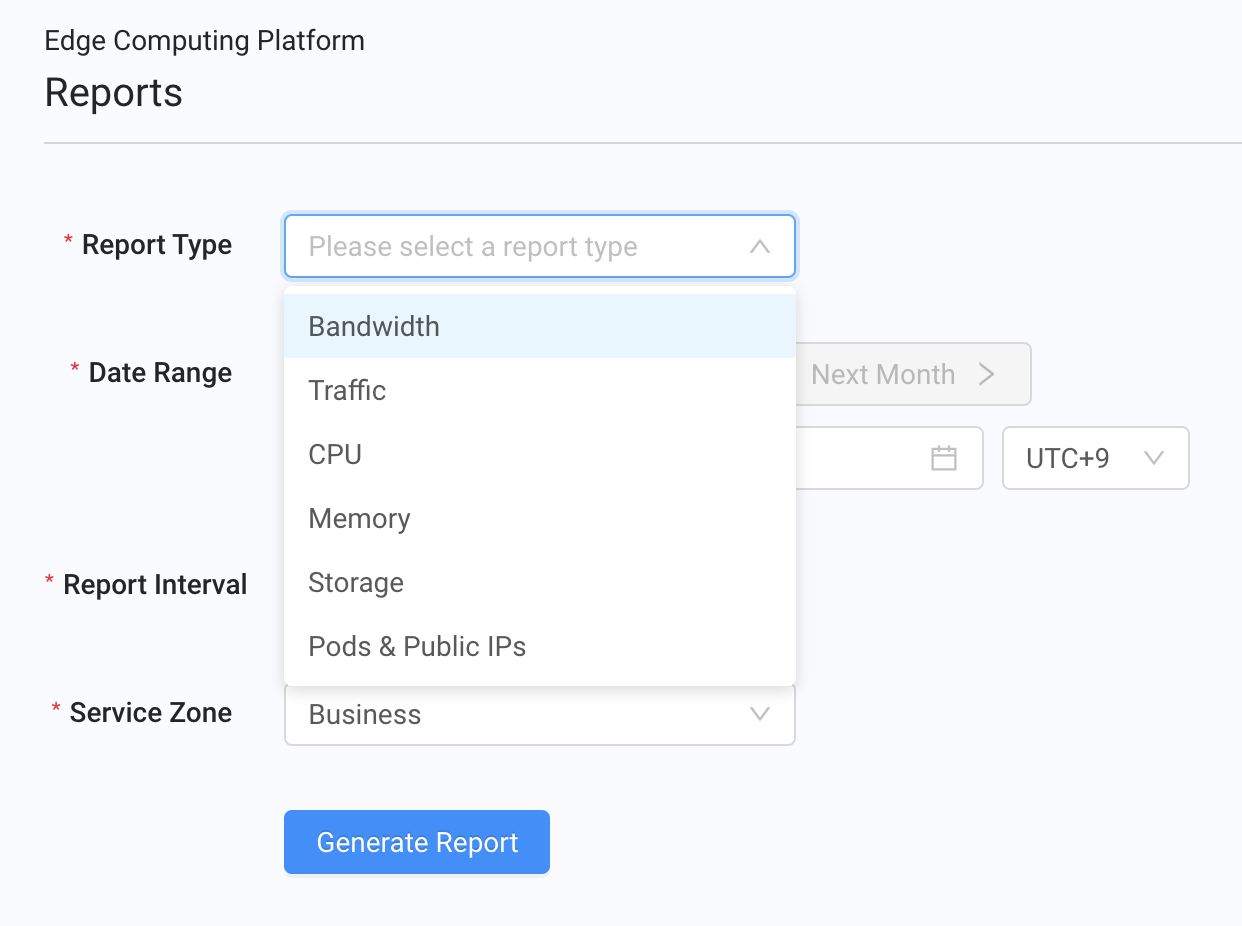
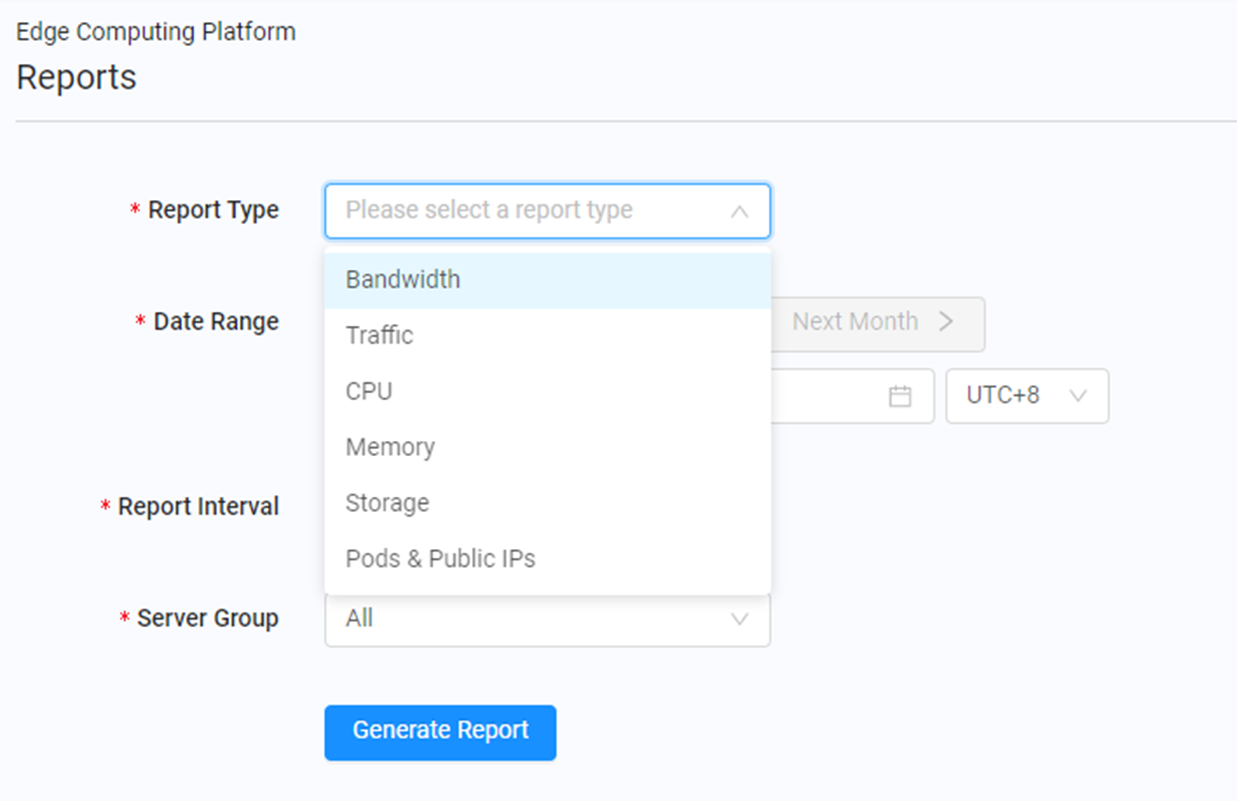
Replace service zone with server group on reports page and various changes to introduction, dashboard and UI navigation page

diff --git a/en/docs/portal/reports.md b/en/docs/portal/reports.md
@@ -1,8 +1,8 @@
 # Reports
 
-The ECP allows you to generate reports covering bandwidth, traffic, CPU, memory, storage, and pods and public IP addresses. The metrics related to CPU, memory, and storage are reported according to your resource requests rather than real-time consumption.
+The ECP reporting feature enables you to retrieve reports on both your resource requests (CPU, RAM, disks, and IP) and real-time traffic data.
 
-You can query reports for up to one year (366 days, which includes Leap Day). The report granularity can be as high as 1-minute or from medium to low, such as 5-minute, hourly, daily, and monthly. You can even query reports on applications that run in different ECP service zones.
+You can query reports for up to one year (366 days, which includes Leap Day). The report granularity can be as high as 1-minute or from medium to low, such as 5-minute, hourly, daily, and monthly. You can query reports as per ECP server groups.
 
 If you are a reseller with child accounts, you can select the accounts that a report will cover (the parent account only, the child account only, or both the parent and child accounts).
 
@@ -16,7 +16,7 @@ The following figure shows the key elements on the page.
 
 | **Fields**   | **Description**                                                                                           |
 | :----------: | --------------------------------------------------------------------------------------------------------- |
-| 1            | Specify the report type, date range, report interval, and service zone. Resellers with child accounts can also select a report range.  |
+| 1            | Specify the report type, date range, report interval, and server group. Resellers with child accounts can also select a report range.  |
 | 2            | The **Generate Report** button allows you to generate the report defined by the report parameters.        | 
 
 # Understanding Report Types
@@ -27,12 +27,12 @@ The ECP supports the following type of reports. You select a report type from th
 
 | **Report**               | **Description**                               |
 | -------------------------|-----------------------------------------------| 
-| Bandwidth                | Shows the total peak incoming and outgoing bandwidth, peak total bandwidth, average total bandwidth (in bps), and how the values change over time.                                               |
-| Traffic                  | Shows the total amount of incoming and outgoing traffic, the total traffic value (in bytes), and how the values change over time.                                                                      |
-| CPU                      | Shows the peak CPU usage and how the value changes over time.         |
-| Memory                   | Shows the peak memory usage and how the value changes over time.                                                         |
-| Storage                  | Shows the peak local storage usage and peak persist storage usage (in bytes), and how the values change over time.     |
-| Pods & Public IPs        | Shows the peak pod usage and peak IP usage, and how the values change over time.                                           |
+| Bandwidth                | Shows 95th percentile bandwidth of incoming/outgoing/total traffic, average bandwidth, and how the bandwidth changes over time.                                               |
+| Traffic                  | Shows volumes of incoming/outgoing/total traffic, and how the values change over time.                                                                      |
+| CPU                      | Shows peak CPU requests and how the requests change over time.         |
+| Memory                   | Shows peak RAM requests and how the requests change over time.                                                         |
+| Storage                  | Shows peak local-SSD and persist-SSD storage requests, and how the requests change over time.     |
+| Pods & Public IPs        | Shows peak pods and IP addresses requests, and how the requests change over time.                                           |
 
 # Generating Reports
 
@@ -45,9 +45,9 @@ The ECP supports the following type of reports. You select a report type from th
 | -------------------------|-----------------------------------------------| 
 | Report Type              | Select the [type of report](<#understanding-report-types>) you want to generate.                      |
 | Date Range               | Select the month, or a start date, end date, and time span for the report. If you select a start date, end date, and time span, use the **UTC** drop-down list to select a time zone.                |
-| Report Interval          | Select the granularity of the returned data. Choices are:<ul><li><strong>1 Minute</strong> = this interval is supported when the time span does not exceed 7 days.</li><li><strong>5 Minutes</strong> = this interval is supported when the time span does not exceed 31 days.</li><li><strong>1 Hour</strong>.</li><li><strong>1 Day</strong>.<li><strong>1 Month</strong>.</li></ul>Raw report data is generated per 1 minute. The raw data is aggregated to provide reports of different granularities. The aggregation method is the “sum” for the metrics "inboundTraffic," "outboundTraffic," and "totalTraffic." For all other metrics, the aggregation method is "average."                              |
-| Service Zone             | Select one or more service zone options. <ul><li><strong>Business</strong> = business service zone. (*default*).</li><li><strong>Standard</strong> = standard service zone.</li><li><strong>Premium</strong> = premium service zone.                                                                       |
-| Report Range             | If you are a reseller with child accounts, select the accounts that this report will cover. Choices are:<ul><li><strong>This Account Only</strong>.</li><li><strong>Children Accounts Only</strong>.</li><li><strong>This Account + Children</strong>. (*default*)</li></li></ul>                                                                              |
+| Report Interval          | Select the granularity of the returned data. Choices are:<ul><li><strong>1 Minute</strong> = this interval is supported when the time span does not exceed 7 days.</li><li><strong>5 Minutes</strong> = this interval is supported when the time span does not exceed 31 days.</li><li><strong>1 Hour</strong>.</li><li><strong>1 Day</strong>.<li><strong>1 Month</strong>.</li></ul>Raw report data is generated every minute and is then aggregated to provide reports of different granularities. The aggregation method is “sum” for the metrics "inboundTraffic," "outboundTraffic," and "totalTraffic." For all other metrics, the aggregation method is "average."                              |
+| Server Group             | Select one or more server group options. <ul><li><strong>All</strong> = all server groups. (*default*).</li><li><strong>Standard</strong> = standard server group.</li><li><strong>Premium</strong> = premium server group.</li><li><strong>Premium+</strong> = premium+ server group.</li><li><strong>Ultra</strong> = ultra server group.</li></ul>                                                                       |
+| Report Range             | If you are a reseller with child accounts, select the accounts that this report will cover. Choices are:<ul><li><strong>This Account Only</strong>.</li><li><strong>Children Accounts Only</strong>.</li><li><strong>This Account + Children</strong>. (*default*)</li></ul>                                                                              |
 
 3. Click the **Generate Report** button to generate the report.
 4. With a generated report (similar to the one below) displayed at the bottom of the form, you can:

diff --git a/en/docs/portal/dashboard.md b/en/docs/portal/dashboard.md
@@ -1,10 +1,10 @@
 # Understanding the Dashboard
 
-The Dashboard is the landing page after you log in to the ECP. It provides an overview of resource quota consumption and resource usage metrics.
+The Dashboard is the landing page after you log in to the ECP. It provides an overview of resource quotas status and resource usage metrics.
 
-When you subscribe to the ECP, restrictions are enforced on the total amount of resources available to you across all PoPs in the ECP platform. These restrictions (called “resource quotas”) ensure that resource consumption does not exceed the quotas. Resource quotas are consumed by your containerized applications. All resource requests are checked against the resource quotas. If any incoming resource request will cause the cumulative resource quota consumption to be exceeded, the request will be rejected.
+When you subscribe to the ECP, restrictions are enforced on the total amounts of resources that can be requested across all ECP PoPs. These restrictions (called "resource quotas") ensure that at any time your cumulative resource requests do not exceed the limits. Resource quotas are consumed by your applications. All resource requests are checked against the resource quotas. If any incoming resource request will cause the cumulative resource requests to exceed the quotas, the request will be rejected.
 
-Within the ECP platform, high-level types of resources include compute, storage, and network. The Dashboard provides an overview of how your applications are using these resources.
+Within the ECP platform, high-level types of resources include compute, storage, and network. The Dashboard page provides an overview of how your applications are using these resources.
 
 Resource quota charts at the top of the Dashboard show “quota consumed” and “quota available” percentages for quotas in CPU, memory, and public IPv4 addresses. In the backend, additional quotas are imposed, including:
 
@@ -37,5 +37,5 @@ Hovering your cursor over the data points in a resource quota or usage metrics c
 
 The metrics related to CPU, memory, and storage are reported according to your resource requests for your applications. These metrics do not refer to real-time resource consumption by the processes running in your applications. For instance, if you request 1 vCPU core for your application when only 0.5 core is being used, the CPU metric value shown on the Dashboard will be the 1 vCPU core.
 
-If you find on the portal or through an API call that high resource consumption is causing resource requests to be rejected, contact CDNetworks' sales engineers to adjust the quotas for you. You will not incur higher costs by setting higher quotas. Billing is based on resources requested and allocated for your applications.
+If you find on the portal or through an API call that high resource consumption is causing resource requests to be rejected, contact our sales engineers to adjust the quotas for you. You will not incur higher costs by setting higher quotas. Billing is based on resources requested and allocated for your applications.
 

diff --git a/en/docs/portal/accessing-portal/navigating-ui.md b/en/docs/portal/accessing-portal/navigating-ui.md
@@ -10,15 +10,15 @@ The default menu lists the ECP activities you can perform.
 
 ## Dashboard
 
-The [Dashboard](</docs/portal/dashboard.md>) is the landing page after you log in to the ECP. It provides an overview of resource quota consumption and resource usage metrics.
+The [Dashboard](</docs/portal/dashboard.md>) is the landing page after you log in to the ECP. It provides an overview of resource quotas consumption and resource usage metrics.
 
 ## Reports
 
-The [Reports page](</docs/portal/reports.md>) allows you to generate reports about bandwidth, traffic, CPU, memory, and storage resources as well as pods and public IP addresses.
+The [Reports page](</docs/portal/reports.md>) allows you to retrieve reports about your resource requests and real-time traffic data.
 
 ## Applications
 
-The [Applications page](</docs/portal/applications/managing-applications.md>) allows you to configure your containerized application once, and then deploy your application to CDNetworks' ECP locations across the globe with a single click.
+The [Applications page](</docs/portal/applications/managing-applications.md>) allows you to configure your containerized application once, and then deploy your application to ECP locations across the globe with a single click.
 
 ## ImagePullSecrets
 
@@ -26,7 +26,7 @@ The [ImagePullSecrets page](</docs/portal/image-pull-secrets/managing-image-pull
 
 ## CNAMEs
 
-The [CNAMEs page](</docs/portal/cnames/managing-cnames.md>) allows you to create and manage the Canonical Name Record (CNAME) that allows the ECP to manage traffic routing for the application.
+The [CNAMEs page](</docs/portal/cnames/managing-cnames.md>) allows you to create and manage the Canonical Name Record (CNAME) that allows the ECP to manage traffic routing for your application.
 
 ## Image Registry
 
@@ -34,10 +34,4 @@ The Image Registry menu allows you to manage [registry projects](</docs/portal/i
 
 ## Global Presence Page
 
-The [Global Presence page](</docs/portal/global-presence.md>) shows the worldwide locations of CDNetworks' PoPs. Controls allow you to filter PoPs by region, service zone, and status.
-
-## User Info
-
-Clicking the blue circle at the top of the page displays the user information. It also provides a **Logout** link for exiting the ECP portal.
-
-<p align=center><img src="/docs/resources/images/accessing-portal/user-info.png" alt="user information" width="400"></p>
+The [Global Presence page](</docs/portal/global-presence.md>) shows the worldwide locations of ECP PoPs. Controls allow you to filter PoPs by region, server group, and status.

diff --git a/en/docs/intro.md b/en/docs/intro.md
@@ -10,10 +10,10 @@ The Edge Computing Platform (ECP) Customer Portal is a web-based user interface
 - Rich API and intuitive management console
 - Easy access to compute, network and storage resources at the edge enabled by automatic application delivery around the globe
 - Full application lifecycle management, covering build, deployment, update, scaling and troubleshooting, etc
-- DNS-based intelligent global traffic management
+- DNS-based global traffic management that helps intelligently routes traffic
 - Images registry service that stores and secures container images and accelerates images upload and download
 - A network of over 55 edge PoPs which keeps growing
-- Real-time reports covering metrics related to traffic, CPU, RAM and disks, etc.
+- Real-time reports with rich metrics supported
 
 ## Where to Go from Here
 
